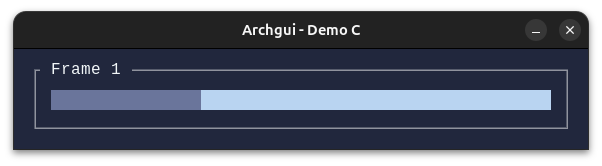
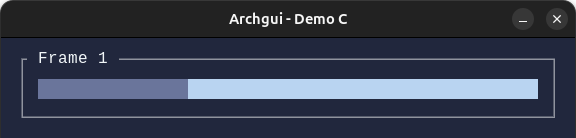
Add files via upload

diff --git a/README.md b/README.md
@@ -106,11 +106,69 @@ conda install -c conda-forge nuitka
 python -m nuitka --onefile --enable-plugin=tk-inter demo.py
 ```
 
-## 🧐 Démonstration :
-#### Demo A (demo_a.py):
-<a href="demo_img/demo_1.png"><img src="demo_img/demo_1.png" align="left" height="100" width="100" ></a>
 
-#### Demo B (demo_b.py):
-#### Demo C (demo_c.py):
-#### Demo D (demo_d.py):
-#### Demo E (demo_e.py):
+---
+## 👉 Demo A :
+#### Manipulation des inputs inline text et button.
+
+| Script          | Model                     | Events                 |
+|-----------------|---------------------------|------------------------|
+| [`demo_a.py`](https://github.com/Seblefdev/archgui-demo/blob/main/demo_a.py) | [`ag_windows/demo_a.json`](https://github.com/Seblefdev/archgui-demo/blob/main/ag_windows/demo_a.json)  | [`ag_events/demo_a.py`](https://github.com/Seblefdev/archgui-demo/blob/main/ag_events/demo_a.py)  |
+
+![Image](https://github.com/Seblefdev/archgui-demo/blob/main/demo_img/demo_a.png?raw=true)
+
+
+
+---
+## 👉 Demo B:
+#### Création et manipulation d’un graphique via `MatPlotLib`.
+
+| Script          | Model                     | Events                 |
+|-----------------|---------------------------|------------------------|
+| [`demo_b.py`](https://github.com/Seblefdev/archgui-demo/blob/main/demo_b.py) | [`ag_windows/demo_b.json`](https://github.com/Seblefdev/archgui-demo/blob/main/ag_windows/demo_b.json)  | [`ag_events/demo_b.py`](https://github.com/Seblefdev/archgui-demo/blob/main/ag_events/demo_b.py)  |
+
+![Image](https://github.com/Seblefdev/archgui-demo/blob/main/demo_img/demo_b.png?raw=true)
+
+
+
+---
+## 👉 Demo C:
+#### Manipulation d’une barre de progression.
+
+| Script          | Model                     | Events                 |
+|-----------------|---------------------------|------------------------|
+| [`demo_c.py`](https://github.com/Seblefdev/archgui-demo/blob/main/demo_c.py) | [`ag_windows/demo_c.json`](https://github.com/Seblefdev/archgui-demo/blob/main/ag_windows/demo_c.json)  | [`ag_events/demo_c.py`](https://github.com/Seblefdev/archgui-demo/blob/main/ag_events/demo_c.py)  |
+
+![Image](https://github.com/Seblefdev/archgui-demo/blob/main/demo_img/demo_c.png?raw=true)
+
+
+
+---
+## 👉 Demo D:
+#### Manipulation d'onglet.
+
+| Script          | Model                     | Events                 |
+|-----------------|---------------------------|------------------------|
+| [`demo_d.py`](https://github.com/Seblefdev/archgui-demo/blob/main/demo_d.py) | [`ag_windows/demo_d.json`](https://github.com/Seblefdev/archgui-demo/blob/main/ag_windows/demo_d.json)  | [`ag_events/demo_d.py`](https://github.com/Seblefdev/archgui-demo/blob/main/ag_events/demo_d.py)  |
+
+![Image](https://github.com/Seblefdev/archgui-demo/blob/main/demo_img/demo_d.png?raw=true)
+
+
+
+---
+## 👉 Demo E:
+#### Manipulation de plusieurs fenêtres positionnement et dimensionnement relatif.
+
+| Script                                                                       | Model                                                                                                      | Events                                                                                               |
+|------------------------------------------------------------------------------|------------------------------------------------------------------------------------------------------------|------------------------------------------------------------------------------------------------------|
+| [`demo_e.py`](https://github.com/Seblefdev/archgui-demo/blob/main/demo_e.py) | [`ag_windows/demo_e.json`](https://github.com/Seblefdev/archgui-demo/blob/main/ag_windows/demo_e.json)     | [`ag_events/demo_e.py`](https://github.com/Seblefdev/archgui-demo/blob/main/ag_events/demo_e.py)     |
+| `onclick: button_1`                                                          | [`ag_windows/demo_e_1.json`](https://github.com/Seblefdev/archgui-demo/blob/main/ag_windows/demo_e_1.json) | [`ag_events/demo_e_1.py`](https://github.com/Seblefdev/archgui-demo/blob/main/ag_events/demo_e_1.py) |
+| `onclick: button_2`                                                                   | [`ag_windows/demo_e_2.json`](https://github.com/Seblefdev/archgui-demo/blob/main/ag_windows/demo_e_2.json) | [`ag_events/demo_e_2.py`](https://github.com/Seblefdev/archgui-demo/blob/main/ag_events/demo_e_2.py) |
+| `onclick: button_3`                                                                   | [`ag_windows/demo_e_3.json`](https://github.com/Seblefdev/archgui-demo/blob/main/ag_windows/demo_e_3.json) | [`ag_events/demo_e_3.py`](https://github.com/Seblefdev/archgui-demo/blob/main/ag_events/demo_e_3.py) |
+| `onclick: button_4`                                                                   | [`ag_windows/demo_e_4.json`](https://github.com/Seblefdev/archgui-demo/blob/main/ag_windows/demo_e_4.json) | [`ag_events/demo_e_4.py`](https://github.com/Seblefdev/archgui-demo/blob/main/ag_events/demo_e_4.py) |
+| `onclick: button_5`                                                                   | [`ag_windows/demo_e_5.json`](https://github.com/Seblefdev/archgui-demo/blob/main/ag_windows/demo_e_5.json) | [`ag_events/demo_e_5.py`](https://github.com/Seblefdev/archgui-demo/blob/main/ag_events/demo_e_5.py) |
+| `onclick: button_6`                                                                   | [`ag_windows/demo_e_6.json`](https://github.com/Seblefdev/archgui-demo/blob/main/ag_windows/demo_e_6.json) | [`ag_events/demo_e_6.py`](https://github.com/Seblefdev/archgui-demo/blob/main/ag_events/demo_e_6.py) |
+| `onclick: button_7`                                                                   | [`ag_windows/demo_e_7.json`](https://github.com/Seblefdev/archgui-demo/blob/main/ag_windows/demo_e_7.json) | [`ag_events/demo_e_7.py`](https://github.com/Seblefdev/archgui-demo/blob/main/ag_events/demo_e_7.py) |
+| `onclick: button_8`                                                                   | [`ag_windows/demo_e_8.json`](https://github.com/Seblefdev/archgui-demo/blob/main/ag_windows/demo_e_8.json) | [`ag_events/demo_e_8.py`](https://github.com/Seblefdev/archgui-demo/blob/main/ag_events/demo_e_8.py) |
+
+[![Image](https://github.com/Seblefdev/archgui-demo/blob/main/demo_img/demo_e_0.png?raw=true)](https://github.com/Seblefdev/archgui-demo/blob/main/demo_img/demo_e_1.png?raw=true)
